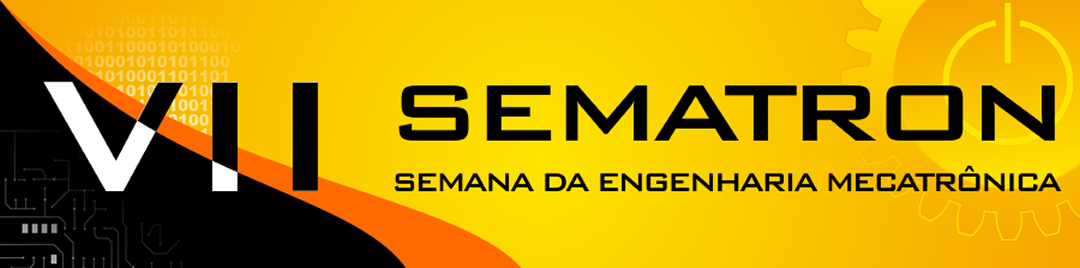
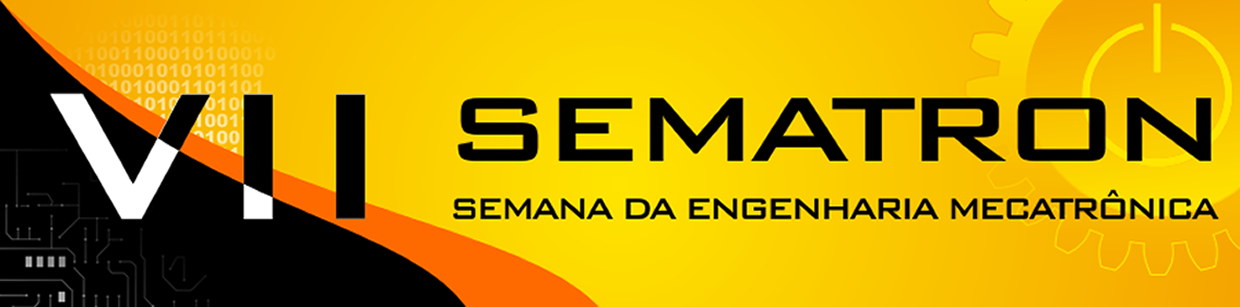
redimensionei o cabecalho

diff --git a/sematron-vii/3pane/estilo.css b/sematron-vii/3pane/estilo.css
@@ -22,9 +22,9 @@ html { padding:0; margin:0; overflow:hidden; font-family: Fontin, verdana, arial
 		height:1080px;
 	}
 	
-	table.main td {
+	/*table.main td {
 		border:10px solid rgba(0,0,0,.7);
-	}
+	}*/
 
 
 	.tab {
@@ -41,9 +41,9 @@ html { padding:0; margin:0; overflow:hidden; font-family: Fontin, verdana, arial
 		background-color:rgb(70,70,70);	
 	} 
 
-        .cor_tab1 { background-color:gray; }
-        .cor_tab2 { background-color:rgb(100,197,210); }
-        .cor_tab3 { background-color:rgb(14,148,171);	}
+        .cor_tab1 { background-color:rgb(255,69,0); }
+        .cor_tab2 { background-color:rgb(255,140,0); }
+        .cor_tab3 { background-color:rgb(255,165,0);	}
 
         .transp { background-color:transparent; }
 

diff --git a/sematron-vii/3pane/layout.html b/sematron-vii/3pane/layout.html
@@ -14,7 +14,6 @@ Use isso para abrir no browser. Mas lembre-se de tirar para o TelaSocial
 <table class='main' cellpadding="10" cellspacing="0" height="100%">
 <tr>
 <td colspan='2' id='area_bottom' valign='top' class="cabecalho">
-
 </td>
 <td id='area_bottomright' align="center" valign="middle">
 </td>
